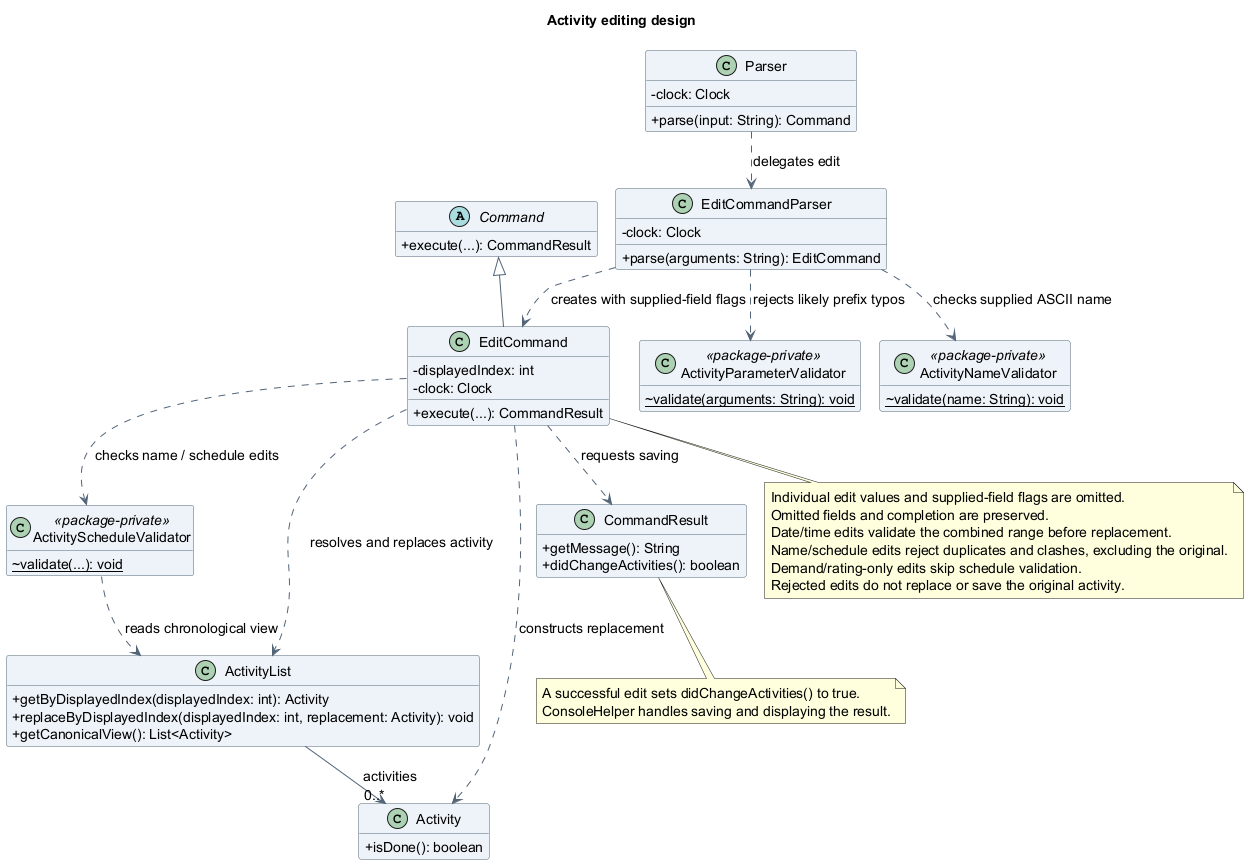
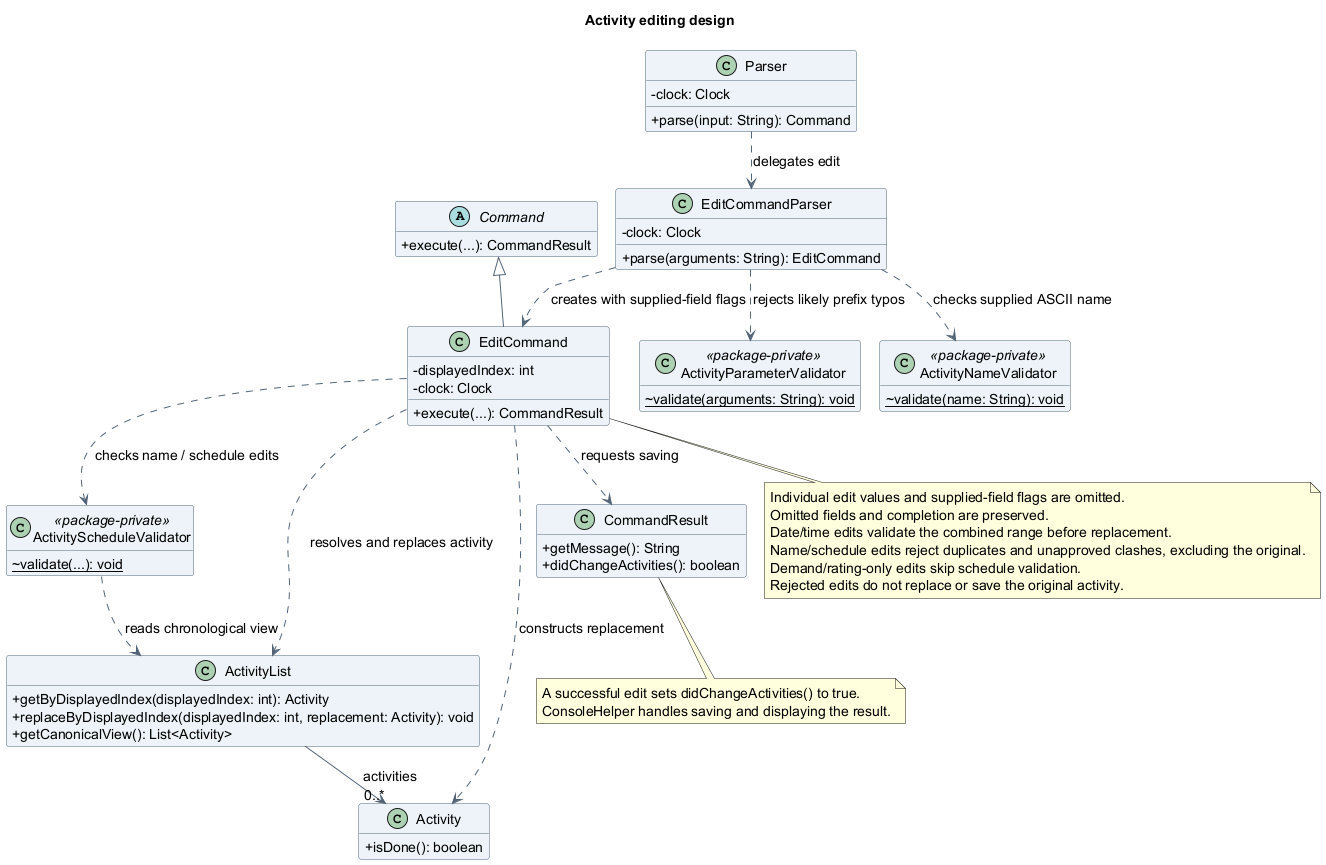
fix(activity): allow explicitly approved schedule overlaps
Accept overlap/ALLOW on add and edit for intentional concurrent activities while retaining clash warnings by default. Always reject duplicate identities, keep the override local to one command, and test add/edit approval, completion, invalid flags, and atomic rejection. Update help, guides, and validation diagrams.

diff --git a/src/main/java/seedu/unienable/command/common/HelpCommand.java b/src/main/java/seedu/unienable/command/common/HelpCommand.java
@@ -52,7 +52,7 @@ public class HelpCommand extends Command {
             """.stripTrailing();
 
     private static final String EDIT_USAGE = "edit INDEX [n/NAME] [d/YYYY-MM-DD] [s/HH:mm] [e/HH:mm] "
-            + "[dem/LOW|MEDIUM|HIGH] [imp/IMP] [urg/URG] [com/COM]";
+            + "[dem/LOW|MEDIUM|HIGH] [imp/IMP] [urg/URG] [com/COM] [overlap/ALLOW]";
 
     /**
      * Keeps command instructions together so the parser does not duplicate help text.
@@ -62,7 +62,8 @@ public class HelpCommand extends Command {
                     ADD - Create an activity
 
                     Usage:
-                      add n/NAME d/YYYY-MM-DD s/HH:mm e/HH:mm [dem/LOW|MEDIUM|HIGH] [imp/IMP] [urg/URG] [com/COM]
+                      add n/NAME d/YYYY-MM-DD s/HH:mm e/HH:mm [dem/LOW|MEDIUM|HIGH] \
+                    [imp/IMP] [urg/URG] [com/COM] [overlap/ALLOW]
 
                     Details:
                       - n/, d/, s/, and e/ are required; prefixes may appear in any order.
@@ -70,7 +71,7 @@ public class HelpCommand extends Command {
                       - Write names in English using ASCII characters only; accents and emoji are rejected.
                       - Use a real YYYY-MM-DD date and 24-hour HH:mm times, such as 09:30.
                       - End must be after start on the same day and after the current time.
-                      - Duplicate activities and overlapping times on the same date are rejected.
+                      - Duplicate activities are rejected. Intentional overlaps require overlap/ALLOW.
                       - Back-to-back activities are allowed; completed activities still occupy their time.
                       - Demand defaults to MEDIUM; choose LOW, MEDIUM, or HIGH.
                       - IMP = importance; URG = urgency; COM = commitment.
@@ -94,7 +95,7 @@ public class HelpCommand extends Command {
                       - Names, dates, times, demand, and ratings follow the same rules as add.
                       - Replacement names must use ASCII characters only.
                       - Date/time edits must leave an end after start on the same day and after now.
-                      - Name or schedule edits cannot duplicate or overlap another activity.
+                      - Duplicate edits are rejected. Use overlap/ALLOW to confirm an intentional time clash.
                       - Name, demand, or rating edits alone can update historical activities.
                       - To change completion, use mark or unmark. Successful edits save automatically.
 

diff --git a/src/test/java/seedu/unienable/command/activity/ActivityScheduleValidatorTest.java b/src/test/java/seedu/unienable/command/activity/ActivityScheduleValidatorTest.java
@@ -27,6 +27,30 @@ class ActivityScheduleValidatorTest {
     private final Storage storage = new Storage();
 
     @Test
+    void explicitOverride_allowsConcurrentActivitiesButNeverDuplicates() throws Exception {
+        ActivityList activities = new ActivityList();
+        execute(activities, "add n/Lecture d/2099-12-01 s/09:00 e/10:00");
+        execute(activities, "add n/Reminder d/2099-12-01 s/09:30 e/10:30 overlap/ALLOW");
+        assertEquals(2, activities.getActivities().size());
+        assertThrows(UniEnableException.class, () -> execute(activities,
+                "add n/Lecture d/2099-12-01 s/09:00 e/10:00 overlap/ALLOW"));
+        execute(activities, "edit 2 s/09:15 overlap/allow");
+        assertEquals(LocalTime.parse("09:15"), activities.getByDisplayedIndex(2).getStartTime());
+        assertThrows(UniEnableException.class, () -> execute(activities, "edit 2 s/09:20"));
+        execute(activities, "mark 1");
+        execute(activities, "add n/Concurrent d/2099-12-01 s/09:45 e/10:15 overlap/ALLOW");
+        assertEquals(3, activities.getActivities().size());
+    }
+
+    @Test
+    void invalidOrUnaccompaniedOverride_isRejectedBeforeMutation() {
+        assertThrows(UniEnableException.class,
+                () -> parser.parse("add n/Study d/2099-12-01 s/09:00 e/10:00 overlap/YES"));
+        assertThrows(UniEnableException.class, () -> parser.parse("edit 1 overlap/ALLOW"));
+        assertThrows(UniEnableException.class, () -> parser.parse("edit 1 n/Study overlap/NO"));
+    }
+
+    @Test
     void duplicateIgnoresNameCaseDemandRatingsAndCompletion() throws Exception {
         ActivityList activities = new ActivityList();
         execute(activities, "add n/Study d/2099-12-01 s/10:00 e/11:00");
@@ -100,7 +124,8 @@ class ActivityScheduleValidatorTest {
         UniEnableException error = assertThrows(UniEnableException.class,
                 () -> execute(activities, "add n/Other d/2099-12-01 s/10:30 e/11:30"));
 
-        assertEquals("[WARNING] Activity clashes with index 1: Earlier (2099-12-01, 10:00-11:00).",
+        assertEquals("[WARNING] Activity clashes with index 1: Earlier (2099-12-01, 10:00-11:00)."
+                + " Add overlap/ALLOW to keep this intentional overlap.",
                 error.getMessage());
         assertEquals(2, activities.getActivities().size());
     }

diff --git a/src/main/java/seedu/unienable/parser/AddCommandParser.java b/src/main/java/seedu/unienable/parser/AddCommandParser.java
@@ -24,7 +24,7 @@ import seedu.unienable.model.enums.DemandLevel;
  * Parses the add command using named prefixes that may appear in any order.
  */
 public class AddCommandParser {
-    private static final Pattern PREFIX = Pattern.compile("(?i)(?<!\\S)(dem|imp|urg|com|n|d|s|e)/");
+    private static final Pattern PREFIX = Pattern.compile("(?i)(?<!\\S)(overlap|dem|imp|urg|com|n|d|s|e)/");
     private static final Pattern DATE_PATTERN = Pattern.compile("\\d{4}-\\d{2}-\\d{2}");
     private static final Pattern TIME_PATTERN = Pattern.compile("\\d{2}:\\d{2}");
     private static final DateTimeFormatter DATE_FORMAT = DateTimeFormatter.ofPattern("uuuu-MM-dd")
@@ -32,7 +32,7 @@ public class AddCommandParser {
     private static final DateTimeFormatter TIME_FORMAT = DateTimeFormatter.ofPattern("HH:mm")
             .withResolverStyle(ResolverStyle.STRICT);
     private static final String USAGE = "Usage: add n/NAME d/YYYY-MM-DD s/HH:mm e/HH:mm "
-            + "[dem/LOW|MEDIUM|HIGH] [imp/IMP] [urg/URG] [com/COM]";
+            + "[dem/LOW|MEDIUM|HIGH] [imp/IMP] [urg/URG] [com/COM] [overlap/ALLOW]";
 
     /**
      * Supplies the current time and local zone for activity end-time validation.
@@ -120,14 +120,15 @@ public class AddCommandParser {
         Integer importance = parseRating(fields.get("imp"), "imp");
         Integer urgency = parseRating(fields.get("urg"), "urg");
         Integer commitment = parseRating(fields.get("com"), "com");
-        return new AddCommand(name, date, startTime, endTime, demand, importance, urgency, commitment);
+        return new AddCommand(name, date, startTime, endTime, demand, importance, urgency, commitment,
+                ActivityParameterValidator.allowsOverlap(fields.get("overlap")));
         //@@author
         //@@author Atharva005
     }
 
     /**
      * Collects prefix/value pairs while allowing whitespace inside the activity name.
-     * Only known prefixes (dem, imp, urg, com, n, d, s, e) delimit values; any other
+     * Only known prefixes (overlap, dem, imp, urg, com, n, d, s, e) delimit values; any other
      * slash-containing text such as "and/or" or "w/o" is kept as value content,
      * except likely misspellings rejected by the shared parameter validator.
      * A known prefix like d/ that appears inside free text is still parsed as a

diff --git a/src/main/java/seedu/unienable/parser/EditCommandParser.java b/src/main/java/seedu/unienable/parser/EditCommandParser.java
@@ -24,7 +24,7 @@ import seedu.unienable.model.enums.DemandLevel;
  */
 public class EditCommandParser {
     private static final Pattern INDEX_PATTERN = Pattern.compile("\\d+");
-    private static final Pattern PREFIX = Pattern.compile("(?i)(?<!\\S)(dem|imp|urg|com|n|d|s|e)/");
+    private static final Pattern PREFIX = Pattern.compile("(?i)(?<!\\S)(overlap|dem|imp|urg|com|n|d|s|e)/");
     private static final Pattern DATE_PATTERN = Pattern.compile("\\d{4}-\\d{2}-\\d{2}");
     private static final Pattern TIME_PATTERN = Pattern.compile("\\d{2}:\\d{2}");
     private static final DateTimeFormatter DATE_FORMAT = DateTimeFormatter.ofPattern("uuuu-MM-dd")
@@ -32,7 +32,7 @@ public class EditCommandParser {
     private static final DateTimeFormatter TIME_FORMAT = DateTimeFormatter.ofPattern("HH:mm")
             .withResolverStyle(ResolverStyle.STRICT);
     private static final String USAGE = "Usage: edit INDEX [n/NAME] [d/YYYY-MM-DD] [s/HH:mm] "
-            + "[e/HH:mm] [dem/LOW|MEDIUM|HIGH] [imp/IMP] [urg/URG] [com/COM]";
+            + "[e/HH:mm] [dem/LOW|MEDIUM|HIGH] [imp/IMP] [urg/URG] [com/COM] [overlap/ALLOW]";
 
     private final Clock clock;
 
@@ -71,6 +71,9 @@ public class EditCommandParser {
         }
 
         Map<String, String> fields = readFields(trimmed.substring(separator).trim());
+        if (fields.size() == 1 && fields.containsKey("overlap")) {
+            throw invalid("At least one editable field must be supplied with overlap/ALLOW.");
+        }
         String name = fields.get("n");
         if (name != null && name.isBlank()) {
             throw invalid("Empty n/ parameter.");
@@ -91,7 +94,8 @@ public class EditCommandParser {
         return new EditCommand(index, name, date, start, end, demand,
                 fields.containsKey("n"), fields.containsKey("d"), fields.containsKey("s"),
                 fields.containsKey("e"), fields.containsKey("dem"), importance, urgency, commitment,
-                fields.containsKey("imp"), fields.containsKey("urg"), fields.containsKey("com"), clock);
+                fields.containsKey("imp"), fields.containsKey("urg"), fields.containsKey("com"), clock,
+                ActivityParameterValidator.allowsOverlap(fields.get("overlap")));
     }
 
     private int parseIndex(String token) throws ParseException {

diff --git a/src/main/java/seedu/unienable/command/activity/EditCommand.java b/src/main/java/seedu/unienable/command/activity/EditCommand.java
@@ -37,6 +37,7 @@ public class EditCommand extends Command {
     private final boolean urgencySupplied;
     private final boolean commitmentSupplied;
     private final Clock clock;
+    private final boolean allowOverlap;
 
     /**
      * Creates an edit command using the system clock.
@@ -60,6 +61,19 @@ public class EditCommand extends Command {
             boolean demandSupplied, Integer importance, Integer urgency, Integer commitment,
             boolean importanceSupplied, boolean urgencySupplied, boolean commitmentSupplied,
             Clock clock) {
+        this(displayedIndex, name, date, startTime, endTime, demand, nameSupplied, dateSupplied,
+                startTimeSupplied, endTimeSupplied, demandSupplied, importance, urgency, commitment,
+                importanceSupplied, urgencySupplied, commitmentSupplied, clock, false);
+    }
+
+    /** Creates a validated replacement command with a per-command overlap override. */
+    public EditCommand(int displayedIndex, String name, LocalDate date, LocalTime startTime,
+            LocalTime endTime, DemandLevel demand, boolean nameSupplied,
+            boolean dateSupplied, boolean startTimeSupplied, boolean endTimeSupplied,
+            boolean demandSupplied, Integer importance, Integer urgency, Integer commitment,
+            boolean importanceSupplied, boolean urgencySupplied, boolean commitmentSupplied,
+            Clock clock, boolean allowOverlap) {
+        this.allowOverlap = allowOverlap;
         this.displayedIndex = displayedIndex;
         this.name = name;
         this.date = date;
@@ -109,7 +123,7 @@ public class EditCommand extends Command {
         Activity replacement = new Activity(updatedName, updatedDate, updatedStart, updatedEnd,
                 updatedDemand, activity.isDone(), updatedImportance, updatedUrgency, updatedCommitment);
         if (nameSupplied || dateSupplied || startTimeSupplied || endTimeSupplied) {
-            ActivityScheduleValidator.validate(replacement, activities, activity);
+            ActivityScheduleValidator.validate(replacement, activities, activity, allowOverlap);
         }
         activities.replaceByDisplayedIndex(displayedIndex, replacement);
         String message = "Edited activity: " + replacement.getName() + "\n"

diff --git a/src/main/java/seedu/unienable/command/activity/ActivityScheduleValidator.java b/src/main/java/seedu/unienable/command/activity/ActivityScheduleValidator.java
@@ -8,7 +8,7 @@ import seedu.unienable.model.Activity;
 import seedu.unienable.model.ActivityList;
 
 /**
- * Rejects duplicate activities and overlapping times before add or edit changes the list.
+ * Rejects duplicate activities and unapproved overlapping times before add or edit changes the list.
  * Existing saved records remain loadable, including schedules created before this rule.
  */
 final class ActivityScheduleValidator {
@@ -31,6 +31,12 @@ final class ActivityScheduleValidator {
      */
     static void validate(Activity candidate, ActivityList activities, Activity replacedActivity)
             throws UniEnableException {
+        validate(candidate, activities, replacedActivity, false);
+    }
+
+    /** Checks duplicates unconditionally, allowing a time overlap only when explicitly requested. */
+    static void validate(Activity candidate, ActivityList activities, Activity replacedActivity, boolean allowOverlap)
+            throws UniEnableException {
         List<Activity> existing = activities.getCanonicalView();
         for (int index = 0; index < existing.size(); index++) {
             Activity activity = existing.get(index);
@@ -43,12 +49,16 @@ final class ActivityScheduleValidator {
                         + describe(index + 1, activity));
             }
         }
+        if (allowOverlap) {
+            return;
+        }
         for (int index = 0; index < existing.size(); index++) {
             Activity activity = existing.get(index);
             if (activity != replacedActivity && activity.getDate().equals(candidate.getDate())
                     && candidate.getStartTime().isBefore(activity.getEndTime())
                     && activity.getStartTime().isBefore(candidate.getEndTime())) {
-                throw new UniEnableException("[WARNING] Activity clashes with " + describe(index + 1, activity));
+                throw new UniEnableException("[WARNING] Activity clashes with " + describe(index + 1, activity)
+                        + " Add overlap/ALLOW to keep this intentional overlap.");
             }
         }
     }

diff --git a/src/main/java/seedu/unienable/command/activity/AddCommand.java b/src/main/java/seedu/unienable/command/activity/AddCommand.java
@@ -21,6 +21,7 @@ import seedu.unienable.storage.Storage;
  */
 public class AddCommand extends Command {
     private final Activity activity;
+    private final boolean allowOverlap;
     /**
      * Creates a command that will insert one incomplete activity with optional ratings.
      *
@@ -36,6 +37,13 @@ public class AddCommand extends Command {
      */
     public AddCommand(String name, LocalDate date, LocalTime startTime, LocalTime endTime, DemandLevel demand,
             Integer importance, Integer urgency, Integer commitment) {
+        this(name, date, startTime, endTime, demand, importance, urgency, commitment, false);
+    }
+
+    /** Creates an add command with explicit permission for an intentional time overlap. */
+    public AddCommand(String name, LocalDate date, LocalTime startTime, LocalTime endTime, DemandLevel demand,
+            Integer importance, Integer urgency, Integer commitment, boolean allowOverlap) {
+        this.allowOverlap = allowOverlap;
         this.activity = new Activity(name, date, startTime, endTime, demand, false,
                 importance, urgency, commitment);
     }
@@ -43,11 +51,11 @@ public class AddCommand extends Command {
     /**
      * Checks the schedule before inserting the activity and reporting success.
      *
-     * @throws UniEnableException if the activity duplicates or overlaps an existing activity.
+     * @throws UniEnableException if the activity duplicates or has an unapproved overlap with an existing activity.
      */
     @Override
     public CommandResult execute(ActivityList activities, Storage storage) throws UniEnableException {
-        ActivityScheduleValidator.validate(activity, activities, null);
+        ActivityScheduleValidator.validate(activity, activities, null, allowOverlap);
         activities.addActivity(activity);
         String message = "Added activity: " + activity.getName() + "\n"
                 + "Date: " + activity.getDate() + "\n"

diff --git a/src/main/java/seedu/unienable/parser/ActivityParameterValidator.java b/src/main/java/seedu/unienable/parser/ActivityParameterValidator.java
@@ -13,7 +13,7 @@ import seedu.unienable.exception.ParseException;
  */
 final class ActivityParameterValidator {
     private static final Pattern PARAMETER = Pattern.compile("(?i)(?<!\\S)([a-z]+)/");
-    private static final List<String> PREFIXES = List.of("n", "d", "s", "e", "dem", "imp", "urg", "com");
+    private static final List<String> PREFIXES = List.of("n", "d", "s", "e", "dem", "imp", "urg", "com", "overlap");
 
     /** Prevents instantiation of this shared parser helper. */
     private ActivityParameterValidator() {
@@ -40,6 +40,17 @@ final class ActivityParameterValidator {
                 }
             }
         }
+    }
+
+    /** Parses the explicit, per-command permission to keep an overlapping activity. */
+    static boolean allowsOverlap(String value) throws ParseException {
+        if (value == null) {
+            return false;
+        }
+        if (!value.equalsIgnoreCase("ALLOW")) {
+            throw new ParseException("[WARNING] The overlap/ parameter must be ALLOW.");
+        }
+        return true;
     }
 
     /** Computes edit distance with adjacent swaps for the short field-prefix tokens. */

diff --git a/src/test/java/seedu/unienable/parser/AddCommandParserTest.java b/src/test/java/seedu/unienable/parser/AddCommandParserTest.java
@@ -205,7 +205,7 @@ class AddCommandParserTest {
             ParseException exception = assertThrows(ParseException.class, () -> parser.parse(input), input);
             assertEquals("[WARNING] End time must be later than current time.\n"
                     + "Usage: add n/NAME d/YYYY-MM-DD s/HH:mm e/HH:mm [dem/LOW|MEDIUM|HIGH] "
-                    + "[imp/IMP] [urg/URG] [com/COM]",
+                    + "[imp/IMP] [urg/URG] [com/COM] [overlap/ALLOW]",
                     exception.getMessage());
         }
     }

diff --git a/docs/UserGuide.md b/docs/UserGuide.md
@@ -124,7 +124,7 @@ Add an incomplete activity with a date, time, and optional demand and ratings.
 Format:
 
 ```text
-add n/NAME d/YYYY-MM-DD s/HH:mm e/HH:mm [dem/LOW|MEDIUM|HIGH] [imp/IMP] [urg/URG] [com/COM]
+add n/NAME d/YYYY-MM-DD s/HH:mm e/HH:mm [dem/LOW|MEDIUM|HIGH] [imp/IMP] [urg/URG] [com/COM] [overlap/ALLOW]
 ```
 
 `n/`, `d/`, `s/`, and `e/` are required and must each appear once with a value.
@@ -186,11 +186,14 @@ date, start and end times as an existing activity. Changing demand, ratings or
 completion does not make it a different activity. Duplicates are rejected with
 `[WARNING] Duplicate activity already recorded at index ...`.
 
-Other activities on the same date are rejected if their times overlap, with
+By default, activities on the same date are rejected if their times overlap, with
 `[WARNING] Activity clashes with index ...`. Both warnings identify the existing
 activity using its chronological `list` index. Completed activities still occupy
 their scheduled time. Back-to-back activities, such as 10:00-11:00 and
-11:00-12:00, and the same times on different dates are allowed. A rejected add
+11:00-12:00, and the same times on different dates are allowed. Add `overlap/ALLOW`
+to confirm an intentional overlap, including with a completed activity. The flag
+applies only to that command and never permits a duplicate. For example:
+`add n/Reminder d/2026-12-01 s/10:30 e/11:30 overlap/ALLOW`. A rejected add
 does not increase the activity count or change saved data.
 
 Input:
@@ -492,7 +495,7 @@ Change selected fields while preserving omitted fields and completion status.
 Format:
 
 ```text
-edit INDEX [n/NAME] [d/YYYY-MM-DD] [s/HH:mm] [e/HH:mm] [dem/LOW|MEDIUM|HIGH] [imp/IMP] [urg/URG] [com/COM]
+edit INDEX [n/NAME] [d/YYYY-MM-DD] [s/HH:mm] [e/HH:mm] [dem/LOW|MEDIUM|HIGH] [imp/IMP] [urg/URG] [com/COM] [overlap/ALLOW]
 ```
 
 - Use an index from chronological `list` or activity `find` output and supply
@@ -506,7 +509,8 @@ edit INDEX [n/NAME] [d/YYYY-MM-DD] [s/HH:mm] [e/HH:mm] [dem/LOW|MEDIUM|HIGH] [im
   time. A change only to name, demand, or ratings can update historical activities.
 - Validation failures leave the activity unchanged. Successful edits save
   automatically and display all resulting fields, including ratings.
-- Name or schedule edits must not duplicate or overlap another activity. The
+- Name or schedule edits must not duplicate another activity. Time overlaps
+  require `overlap/ALLOW` on that edit, for example `edit 2 s/10:30 overlap/ALLOW`. The
   activity being edited is excluded from this comparison. Rejected multi-field
   edits leave every field and the saved file unchanged.
 - Rescheduling can change chronological indexes. Run `list` or `find` again
@@ -939,9 +943,9 @@ Use `help TOPIC` with any command name below for detailed instructions, such as
 | --- | --- |
 | `save` | Save current activities or retry a failed save |
 | `help [TOPIC]` / `bye` | Show categorized or detailed command help / exit |
-| `add n/NAME d/YYYY-MM-DD s/HH:mm e/HH:mm [dem/LOW\|MEDIUM\|HIGH] [imp/IMP] [urg/URG] [com/COM]` | Add an activity with optional ratings |
+| `add n/NAME d/YYYY-MM-DD s/HH:mm e/HH:mm [dem/LOW\|MEDIUM\|HIGH] [imp/IMP] [urg/URG] [com/COM] [overlap/ALLOW]` | Add an activity with optional ratings |
 | `list` / `list demand` | View activities by time / demand |
-| `edit INDEX [n/NAME] [d/YYYY-MM-DD] [s/HH:mm] [e/HH:mm] [dem/LOW\|MEDIUM\|HIGH] [imp/IMP] [urg/URG] [com/COM]` | Update supplied activity fields; preserve omitted fields and completion |
+| `edit INDEX [n/NAME] [d/YYYY-MM-DD] [s/HH:mm] [e/HH:mm] [dem/LOW\|MEDIUM\|HIGH] [imp/IMP] [urg/URG] [com/COM] [overlap/ALLOW]` | Update supplied activity fields; preserve omitted fields and completion |
 | `find KEYWORD` | Search activity names and retain chronological list indexes |
 | `list priority` | View all activities by combined priority score |
 | `view today` / `view tomorrow` / `view week` | Show today's, tomorrow's, or the next seven days' dashboard |

diff --git a/docs/DeveloperGuide.md b/docs/DeveloperGuide.md
@@ -1067,7 +1067,7 @@ Source: [ActivityScheduleValidatorClassDiagram.puml](diagrams/luke/class/Activit
 The helper reads `ActivityList.getCanonicalView()` without changing the list.
 It checks duplicates first: name equality ignores case and surrounding whitespace,
 while date, start and end must match exactly. Demand, ratings and completion do
-not change duplicate identity. It then checks positive-duration overlap on the
+not change duplicate identity. The per-command overlap override never bypasses this check. Unless `overlap/ALLOW` was explicitly supplied, it then checks positive-duration overlap on the
 same date: `candidate.start < existing.end && existing.start < candidate.end`.
 Equal endpoints are allowed, and completed activities participate in both checks.
 
@@ -1075,7 +1075,9 @@ An edit passes the original activity reference so only that record is excluded.
 Warnings identify the conflicting chronological index and activity. A checked
 `UniEnableException` stops the command before mutation or a save request, preserving
 counts, fields, saved bytes and modification times. Demand/rating-only edits do
-not create a new schedule and skip this check. Saved duplicates and overlaps remain
+not create a new schedule and skip this check. Add/edit parsers accept
+`overlap/ALLOW` as explicit permission for an intentional time overlap; the
+flag is not persisted and must be supplied again for a conflicting schedule edit. Saved duplicates and overlaps remain
 loadable; the validator does not silently delete historical data.
 
 `ActivityScheduleValidatorTest` covers duplicate identity, partial/contained/covering
